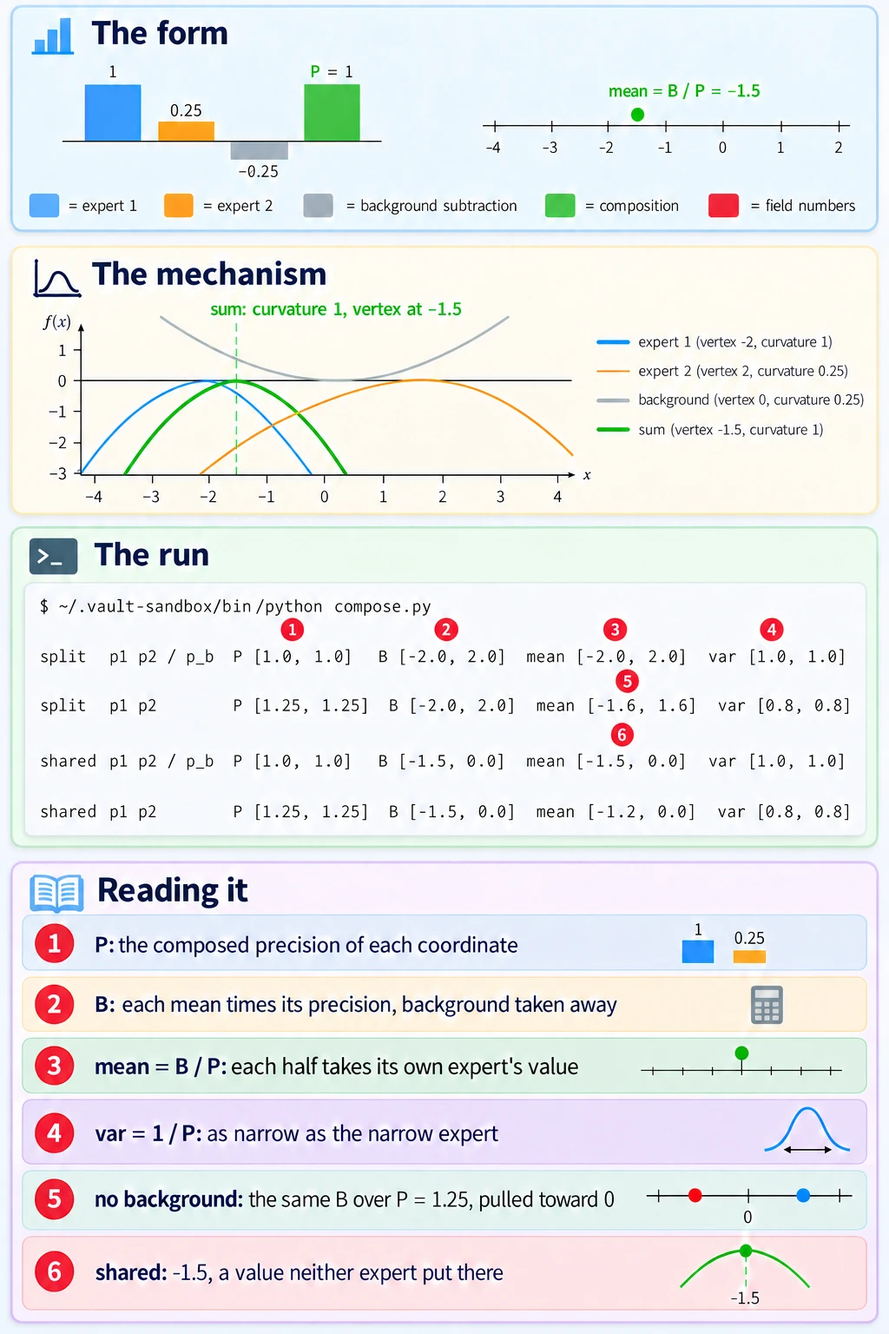
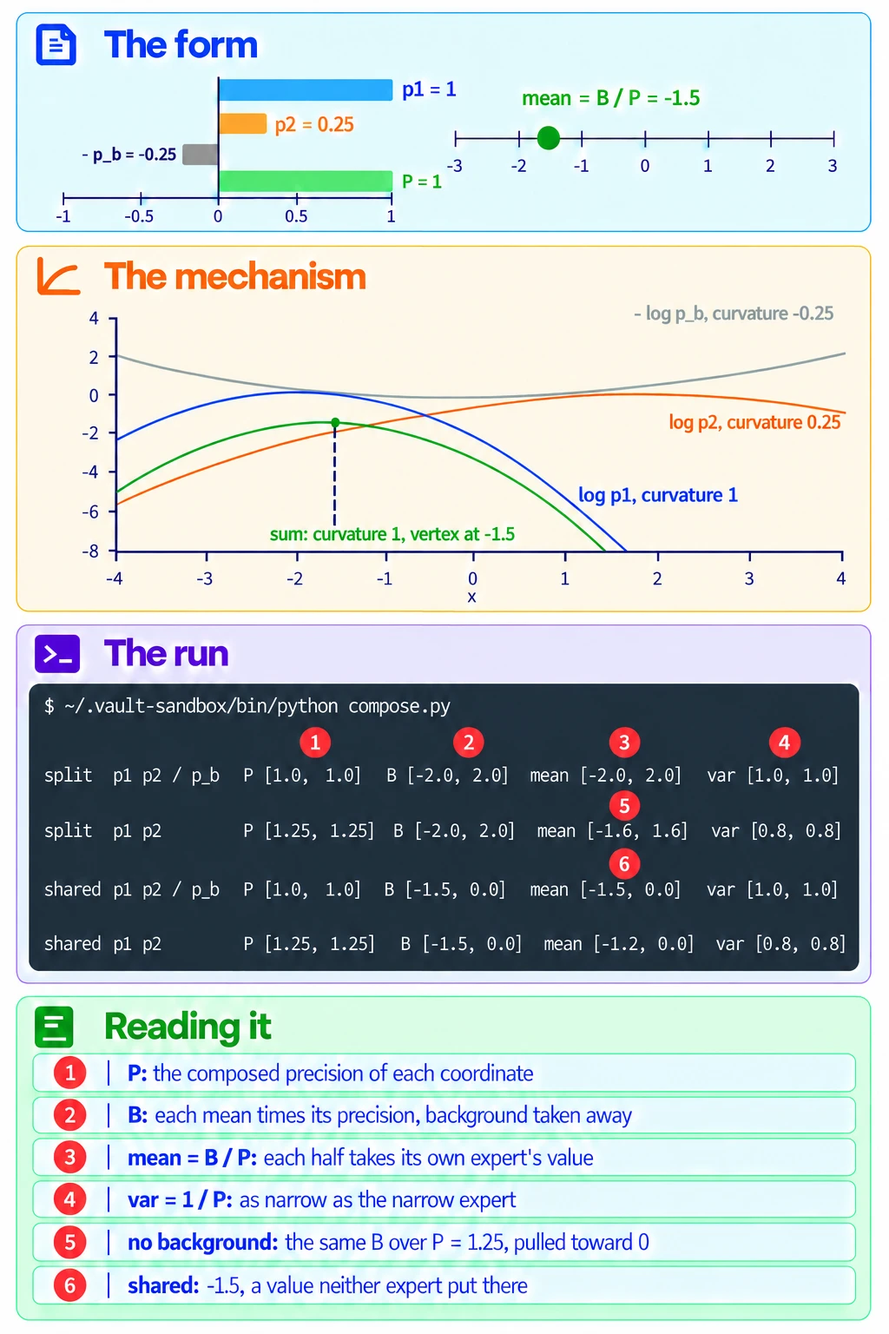
Sync from mscluster-login: 9 files

diff --git a/Artificial Intelligence/Generative Modeling/Diffusion Models/Composition/Kinds Of Composition.md b/Artificial Intelligence/Generative Modeling/Diffusion Models/Composition/Kinds Of Composition.md
@@ -73,6 +73,19 @@ Both work with events, not densities, so neither divides a conditional density b
 
 **The parts world**, also the 16-pixel parts world or the cat-dog parts world, **is a toy where every sample is 16 numbers drawn as a 4 by 4 tile and every expert is a diagonal Gaussian or a mixture of them, so the product of a cat expert and a dog expert is exact. The same product gives a mosaic (a cat head on a dog body), a midpoint blend, or two animals side by side, depending only on which pixels each expert is sure about.** On each pixel the product's mean is the [[Products And Quotients Of Diagonal Gaussians#How the product works|precision-weighted mean]], so the expert with the smaller variance there wins that pixel. *Shown* in the run below and *derived* under "How the parts world works".
 
+<!-- video-table: product-of-two-gaussians rev=1 -->
+Michel van Biezen, then Robert Ghrist from the open web, on multiplying two Gaussians, in the order to watch:
+
+| Order | What it covers | Kind | Watch |
+|---|---|---|---|
+| 1 | The gain is the estimate's error over the sum of both errors, and the new value moves toward the reading by that share, so the surer of the two pulls harder | Intuition | [Van Biezen, Kalman Filter 3 of 55, 0:28 to 3:51](https://www.youtube.com/watch?v=fpRb1sjFz_M&t=28s) |
+| 2 | One update with numbers: an estimate of 68 with error 2 and a reading of 75 with error 4 give 70.33 with error 1.33 | Worked example | [Van Biezen, Kalman Filter 6 of 55, 0:13 to 2:14](https://www.youtube.com/watch?v=SIQJaqYVtuE&t=13s) |
+| 3 | The product of two one-dimensional Gaussians is a scaled Gaussian, found by simplifying the quadratic in the exponent | Proof, open web | [Ghrist, CalcBLUE 3, 18.4, 0:26 to 4:10](https://www.youtube.com/watch?v=lUORBdNccHc&t=26s) |
+| 4 | The same product in several dimensions | Proof, open web | [Ghrist, CalcBLUE 3, 18.4, 4:10 to 5:53](https://www.youtube.com/watch?v=lUORBdNccHc&t=250s) |
+
+Van Biezen works the product as a Kalman filter update and calls the two variances errors: his old value plus the gain times the difference is the precision-weighted mean rearranged, and his new error of 1.33 from 2 and 4 is the two precisions added. No listed creator derives the product of two Gaussian densities, so rows 3 and 4 come from the open web, and no row was found that computes the overlap Z. Rows 1 and 2 are read from automatic captions and good to about 30 seconds; rows 3 and 4 are chapter boundaries, so the sentence inside each is not checked.
+<!-- /video-table -->
+
 **When to reach for it.** When a two-dimensional toy has to stand in for an image chimera. A 2D toy holds one number per slot, so the only chimera it can show is a midpoint, as in the shared case of [[Composing Models With A Background#The two-pixel picture]]. Image chimeras are mostly mosaics, where some parts follow the cat and others the dog. *Stated:* the walk's reading of chimera images, not checked against a source. The parts world gives a mosaic, a blend and co-occurrence as exact targets, with no grid and no sampler, so a sampler run on these experts can be scored against them.
 
 **The world.** Pixels 0 to 7 are the top two rows, the head, and pixels 8 to 15 the bottom two rows, the body. The left half is the left two columns. The cat expert's mean is $+1$ on every pixel it is sure of and the dog's is $-1$. Sure means variance 0.01, and loose means variance 1.
@@ -82,6 +95,18 @@ Both work with events, not densities, so neither divides a conditional density b
 | (a) | mean $+1$; variance 0.01 on the head, 1 on the body | mean $-1$; variance 1 on the head, 0.01 on the body | cats whose heads all look alike and whose bodies vary; dogs the other way round |
 | (b) | mean $+1$, variance 0.01 on every pixel | mean $-1$, variance 0.01 on every pixel | every cat image alike, every dog image alike |
 | (c) | a [mixture](../../../../Mathematics/references/textbooks/machine-learning/mathematics-for-machine-learning.pdf#page=355) with weight 0.5 each: $+1$ and sure on the left half with mean 0 and loose on the right, or the mirror image | the same with $-1$ | each animal photographed in either half of the frame |
+
+<!-- video-table: gaussian-mixture rev=1 -->
+ritvikmath on the Gaussian mixture model, in the order to watch:
+
+| Order | What it covers | Kind | Watch |
+|---|---|---|---|
+| 1 | Each class is its own Gaussian with a mean and a covariance, and π is the share of the data in each class | Intuition | [ritvikmath, Gaussian Mixture Model, 0:31 to 3:33](https://www.youtube.com/watch?v=EWd1xRkyEog&t=31s) |
+| 2 | The density of one fish: π for tuna times the tuna Gaussian, plus π for salmon times the salmon Gaussian, because the fish came from one or the other | Worked example | [ritvikmath, Gaussian Mixture Model, 3:36 to 6:23](https://www.youtube.com/watch?v=EWd1xRkyEog&t=216s) |
+| 3 | The same sum written for K components | Intuition | [ritvikmath, Gaussian Mixture Model, 7:58 to 8:43](https://www.youtube.com/watch?v=EWd1xRkyEog&t=478s) |
+
+He goes on to fit the mixture with the EM algorithm, which composing experts does not need, and he never multiplies or noises a mixture. Times are read from automatic captions and good to about 30 seconds.
+<!-- /video-table -->
 
 **The form.**
 
@@ -96,9 +121,23 @@ mixtures:  (sum_i pi_i N(mu_i, S_i)) (sum_j rho_j N(nu_j, L_j))  is proportional
 
 Both lines are derived in [[Products And Quotients Of Diagonal Gaussians#Products of Gaussian mixtures]].
 
+<!-- video-table: product-of-two-mixtures rev=1 -->
+Chalmers' multiple object tracking course, from the open web, on multiplying a Gaussian mixture by a second factor, in the order to watch:
+
+| Order | What it covers | Kind | Watch |
+|---|---|---|---|
+| 1 | Every pair of an old component and a measurement hypothesis becomes one new component, weighted by the old weight times an integral and normalised over all pairs | Intuition, open web | [Chalmers, Gaussian Sum Filtering: Prediction and Update, 2:38 to 3:38](https://www.youtube.com/watch?v=G_X_dMZUkdI&t=158s) |
+| 2 | With Gaussian factors the integral is the predicted likelihood, which is the pair's overlap, and each new component's mean and covariance come from a Kalman update | Intuition, open web | [Chalmers, Gaussian Sum Filtering: Prediction and Update, 4:20 to 5:15](https://www.youtube.com/watch?v=G_X_dMZUkdI&t=260s) |
+| 3 | Two components and two hypotheses give four numbered components | Worked example, open web | [Chalmers, Gaussian Sum Filtering: Prediction and Update, 6:05 to 7:04](https://www.youtube.com/watch?v=G_X_dMZUkdI&t=365s) |
+
+No listed creator multiplies two mixtures. The second factor in this lecture is a measurement model with a detection probability and clutter rather than a second expert, so read each measurement hypothesis as one component of the second mixture; the Kalman update is the product of the pair's two Gaussians. Times are read from automatic captions and good to about 30 seconds.
+<!-- /video-table -->
+
 ![Six 4 by 4 tiles: the cat all blue, the dog all red, (a) blue top half over red bottom half, (b) all grey, and (c) two tiles, blue left with red right and red left with blue right, each at weight 0.50|900](assets/parts-world-mosaic-blend-two-animals.png)
 
 *Each tile is one image: blue is the cat value $+1$, red the dog value $-1$, grey 0. The first two tiles are the experts' means. The next four are the exact product's means: (a) a cat head on a dog body, (b) all grey, and the two heaviest components of (c), each at weight 0.50.*
+
+**Operate it.** [The parts-world scene](https://claude.ai/artifact/6XzsUMYdEb2eopRyGkpYkh) puts these tiles under four variance sliders, so dragging moves the product from the mosaic of (a) to the blend of (b) while log Z moves with it. A position toggle opens the 2 by 2 grid of component pairs of (c) with their weights ([its pair grid](https://claude.ai/artifact/6XzsUMYdEb2eopRyGkpYkh#p6)), and a noise slider for $\bar\alpha$ sets setting (d)'s summed-score head mean beside the noised product's.
 
 ![Three rows of a cat expert times a dog expert: a cat-head-on-dog-body mosaic when each is sure of a different part, a grey smudge in a red card when both are sure of everything, and two animals side by side at weight 0.50 when each animal sits in either half|720](assets/parts-world-the-concept.webp)
 
@@ -299,6 +338,18 @@ $$
 $$
 
 while the noised product, the target the reverse process needs at this level (equation 11), puts it at $\sqrt{0.5} \cdot 0.980198 = 0.693105$. *Derived*, and the run's fields 11 and 12 agree. Halfway through sampling, summed scores put the head pixel 0.46 below the correct target, two thirds of the way from it to the grey blend's 0. How much of the mosaic a full reverse run keeps at $\bar\alpha = 1$ is not computed here. [[Annealed MCMC]] targets each level's noised product directly, which is the sampler-side repair. *Cited:* Du et al., section 4, equations 11 and 12.
+
+<!-- video-table: forward-process rev=1 -->
+Stanford CS236, then Vizuara, on the forward process, in the order to watch:
+
+| Order | What it covers | Kind | Watch |
+|---|---|---|---|
+| 1 | The noising process that turns data into noise | Intuition | [Stanford CS236, lecture 16, 12:22 to 16:23](https://www.youtube.com/watch?v=VsllsC2JMGY&t=742s) |
+| 2 | Many small noising steps combined into one transition to any noise level | Proof | [Stanford CS236, lecture 16, 16:23 to 19:05](https://www.youtube.com/watch?v=VsllsC2JMGY&t=983s) |
+| 3 | Why each step scales the mean down as well as adding noise | Intuition | [Vizuara, Principles of Diffusion Models, lecture 3, 33:51 to 42:46](https://www.youtube.com/watch?v=Dx-1agEjlJs&t=2031s) |
+
+Vizuara is added for row 3, which no CS236 chapter covers; neither noises a two-dimensional Gaussian cloud and checks the closed form. Times are chapter boundaries read from each video's chapter list, not from captions, so each is good to the chapter and the sentence inside it is not checked.
+<!-- /video-table -->
 
 > 🖼 **Picture on its way**: one head pixel's two precision bars, 100 against 1 on clean data and 1.98 against 1 at noise level 0.5, with the head's value on a number line from -1 to 1 at 0.980, 0.693 and 0.233. <!-- slot: assets/parts-world-the-mechanism.webp · prompt: .prompts/Diffusion Models.md#prompt-33-subject-the-parts-world-the-mechanism -->
 

diff --git a/.prompts/Multivariate Normal Distribution.md b/.prompts/Multivariate Normal Distribution.md
@@ -1,6 +1,6 @@
 # Multivariate Normal Distribution: illustrated map
 
-The drawn pictures for the notes in the vault's [[Multivariate Normal Distribution]] folder, sections [[Diagonal Covariance]], [[Sampling A Diagonal Gaussian]] and [[Products And Quotients Of Diagonal Gaussians]]. `11 prompts · 6 rendered · 2 stuck · 3 waiting`
+The drawn pictures for the notes in the vault's [[Multivariate Normal Distribution]] folder, sections [[Diagonal Covariance]], [[Sampling A Diagonal Gaussian]] and [[Products And Quotients Of Diagonal Gaussians]]. `12 prompts · 8 rendered · 4 stuck · 0 rendering · 0 waiting`
 
 ## Table of contents
 
@@ -408,7 +408,7 @@ Faithfulness note: The green parabola's vertex is at -1.5 and its curvature equa
 
 Navigation: ⬅ [Prompt 7 (Subject): Precisions, the mechanism](#prompt-7-subject-precisions-the-mechanism) | 📋 [TOC](#table-of-contents) | [Prompt 9 (Subject): The area a product loses](#prompt-9-subject-the-area-a-product-loses) ➡
 
-[planned] ⚙ rendering 01a149ff-cfb0-7973-8b76-dd53da89fb85
+[planned] 🖼 rendered 2026-10-17 products-deep-dive-sheet.webp
 Save as: `../Mathematics/Statistics/Distributions/Multivariate Normal Distribution/assets/products-deep-dive-sheet.webp`
 
 Visual thesis: The composed precision, the weighted sum, the mean and the variance come from adding and subtracting, and the run shows the background moving split to (-2, 2) and shared to (-1.5, 0).
@@ -438,13 +438,13 @@ Text in the image, spelled exactly: "The form", "The mechanism", "The run", "Rea
 Exclusions: no fifth pane, no leader lines between panes, no altered output text, no wrapped output line that loses its spacing, no legend panel or colour key, no positive curvature written on the grey curve. no duplicated components, no orphan arrows, no arrow terminating in whitespace, no decorative circuitry or filigree, no invented or misapplied brand logos, no paragraphs of text, no illegible pseudo-code, no crossing arrows where routing could avoid it, no untitled containers, no icon without a label, no perspective distortion applied to arrows, no visual metaphor that contradicts the system's actual semantics, no watermark, no geometric pictogram, circuit symbol, or bare connector line standing in for a real-world physical object the prompt names.
 ```
 
-Faithfulness note: The four output lines match the note's captured run character for character, runs of spaces included; markers 1 to 6 sit over the same fields as the note's rendered output picture; four panes only; no legend anywhere; the grey curve in pane 2 opens upward and is labelled with curvature -0.25, the sign the previous render dropped. Every label in the image, exactly: "The form", "The mechanism", "The run", "Reading it", "P = 1", "mean = B / P = -1.5", "log p1, curvature 1", "log p2, curvature 0.25", "- log p_b, curvature -0.25", "sum: curvature 1, vertex at -1.5", "$ ~/.vault-sandbox/bin/python compose.py", "1 P: the composed precision of each coordinate", "2 B: each mean times its precision, background taken away", "3 mean = B / P: each half takes its own expert's value", "4 var = 1 / P: as narrow as the narrow expert", "5 no background: the same B over P = 1.25, pulled toward 0", "6 shared: -1.5, a value neither expert put there".
+Faithfulness note: The four output lines match the note's captured run character for character, runs of spaces included; markers 1 to 6 sit over the same fields as the note's rendered output picture; four panes only; no legend anywhere; the grey curve in pane 2 opens upward and is labelled with curvature -0.25, minus sign included. Every label in the image, exactly: "The form", "The mechanism", "The run", "Reading it", "P = 1", "mean = B / P = -1.5", "log p1, curvature 1", "log p2, curvature 0.25", "- log p_b, curvature -0.25", "sum: curvature 1, vertex at -1.5", "$ ~/.vault-sandbox/bin/python compose.py", "1 P: the composed precision of each coordinate", "2 B: each mean times its precision, background taken away", "3 mean = B / P: each half takes its own expert's value", "4 var = 1 / P: as narrow as the narrow expert", "5 no background: the same B over P = 1.25, pulled toward 0", "6 shared: -1.5, a value neither expert put there".
 
 ### Prompt 9 (Subject): The area a product loses
 
 Navigation: ⬅ [Prompt 8 (Subject capstone): Precisions, the deep-dive sheet](#prompt-8-subject-capstone-precisions-the-deep-dive-sheet) | 📋 [TOC](#table-of-contents) | [Prompt 10 (Subject): Powers of Gaussians](#prompt-10-subject-powers-of-gaussians) ➡
 
-[planned] ⏳ not rendered
+[planned] ⚠ stuck: pixel check after 3 revisions, the right panel's tangents sit at the parabolas' peak (x about -0.30 on the -3 to 3 axis) where the note puts them at x = 0, so a sloped tangent is drawn at a vertex, and the solid bump peaks at 0.066 on the dashed bell's scale where the note says near 0.054 (0.092 of the dashed bell's height, about one tenth); the constant gap (234 to 238 px at every x), expert b to expert a 0.778 against 0.791, the dashed bell 1.31 times expert a against 1.275, parallel tangents and every label correct; last attempt ~/.cache/codex-drop/obsidian/products-the-area-a-product-loses.png
 Save as: `../Mathematics/Statistics/Distributions/Multivariate Normal Distribution/assets/products-the-area-a-product-loses.webp`
 
 Visual thesis: Multiplying two densities point by point leaves a small bump whose area is 0.075126, and dividing by that area lifts its log by a constant, so the slope of the log, the score, stays the same.
@@ -480,7 +480,7 @@ Faithfulness note: The solid green bump peaks near 0.054 and is about one tenth 
 
 Navigation: ⬅ [Prompt 9 (Subject): The area a product loses](#prompt-9-subject-the-area-a-product-loses) | 📋 [TOC](#table-of-contents) | [Subject lane: Products of Gaussian mixtures](#subject-lane-products-of-gaussian-mixtures) ➡
 
-[planned] ⏳ not rendered
+[planned] ⚠ stuck: pixel check after 3 revisions, bars not to one scale (the blue 2-unit bar is 215, 215, 181 and 120 px in the four rows) and row 1's bells off their means on the -4 to 10 axis (expert a near -0.36 where it must be -1, the product near 0.57 where it must be -0.23, expert b near 1.95 where it must be 1); guidance near 0.27 and negation near -1.95, left of expert a, the row 4 curve opening upward with no peak, opacity and every label correct; two attempts came back semi-transparent (RGBA) and the last is opaque; last attempt ~/.cache/codex-drop/obsidian/products-powers-of-gaussians.png
 Save as: `../Mathematics/Statistics/Distributions/Multivariate Normal Distribution/assets/products-powers-of-gaussians.webp`
 
 Visual thesis: Raising each Gaussian to a power scales its precision bar by that power before the bars are added, and when a negative power takes the total below zero the result is no longer a bell.
@@ -522,7 +522,7 @@ One picture for [[Products And Quotients Of Diagonal Gaussians#Products of Gauss
 
 Navigation: ⬅ [Subject lane: Products of Gaussian mixtures](#subject-lane-products-of-gaussian-mixtures) | 📋 [TOC](#table-of-contents) | [Process lane](#process-lane) ➡
 
-[planned] ⏳ not rendered
+[planned] 🖼 rendered 2026-10-17 products-of-gaussian-mixtures.webp
 Save as: `../Mathematics/Statistics/Distributions/Multivariate Normal Distribution/assets/products-of-gaussian-mixtures.webp`
 
 Visual thesis: Multiplying two two-component mixtures gives one component per pair, four in all, and each pair's weight is how much its two components overlap, so the two pairs that agree keep all the weight and the two that clash keep none.

diff --git a/Mathematics/Statistics/Distributions/Multivariate Normal Distribution/Products And Quotients Of Diagonal Gaussians.md b/Mathematics/Statistics/Distributions/Multivariate Normal Distribution/Products And Quotients Of Diagonal Gaussians.md
@@ -312,7 +312,43 @@ Textbook: [Matrix Cookbook, section 8.1.8, p. 42](../../../references/textbooks/
 
 **The product of two Gaussian mixtures is again a Gaussian mixture, with one component for every pair of components: pair $(i, j)$ has the mean and covariance of the plain product of its two Gaussians, and the weight $w_{ij} \propto \pi_i\,\rho_j\,\mathcal{N}(\mu_i; \nu_j, \Sigma_i + \Lambda_j)$.** That last factor is the pair's area, $Z$ of [[The Area A Product Loses]], so a pair whose two components barely overlap gets almost no weight. *Derived* below.
 
+<!-- video-table: gaussian-mixture rev=1 -->
+ritvikmath on the Gaussian mixture model, in the order to watch:
+
+| Order | What it covers | Kind | Watch |
+|---|---|---|---|
+| 1 | Each class is its own Gaussian with a mean and a covariance, and π is the share of the data in each class | Intuition | [ritvikmath, Gaussian Mixture Model, 0:31 to 3:33](https://www.youtube.com/watch?v=EWd1xRkyEog&t=31s) |
+| 2 | The density of one fish: π for tuna times the tuna Gaussian, plus π for salmon times the salmon Gaussian, because the fish came from one or the other | Worked example | [ritvikmath, Gaussian Mixture Model, 3:36 to 6:23](https://www.youtube.com/watch?v=EWd1xRkyEog&t=216s) |
+| 3 | The same sum written for K components | Intuition | [ritvikmath, Gaussian Mixture Model, 7:58 to 8:43](https://www.youtube.com/watch?v=EWd1xRkyEog&t=478s) |
+
+He goes on to fit the mixture with the EM algorithm, which composing experts does not need, and he never multiplies or noises a mixture. Times are read from automatic captions and good to about 30 seconds.
+<!-- /video-table -->
+
+<!-- video-table: product-of-two-mixtures rev=1 -->
+Chalmers' multiple object tracking course, from the open web, on multiplying a Gaussian mixture by a second factor, in the order to watch:
+
+| Order | What it covers | Kind | Watch |
+|---|---|---|---|
+| 1 | Every pair of an old component and a measurement hypothesis becomes one new component, weighted by the old weight times an integral and normalised over all pairs | Intuition, open web | [Chalmers, Gaussian Sum Filtering: Prediction and Update, 2:38 to 3:38](https://www.youtube.com/watch?v=G_X_dMZUkdI&t=158s) |
+| 2 | With Gaussian factors the integral is the predicted likelihood, which is the pair's overlap, and each new component's mean and covariance come from a Kalman update | Intuition, open web | [Chalmers, Gaussian Sum Filtering: Prediction and Update, 4:20 to 5:15](https://www.youtube.com/watch?v=G_X_dMZUkdI&t=260s) |
+| 3 | Two components and two hypotheses give four numbered components | Worked example, open web | [Chalmers, Gaussian Sum Filtering: Prediction and Update, 6:05 to 7:04](https://www.youtube.com/watch?v=G_X_dMZUkdI&t=365s) |
+
+No listed creator multiplies two mixtures. The second factor in this lecture is a measurement model with a detection probability and clutter rather than a second expert, so read each measurement hypothesis as one component of the second mixture; the Kalman update is the product of the pair's two Gaussians. Times are read from automatic captions and good to about 30 seconds.
+<!-- /video-table -->
+
 **When to reach for it.** When the experts being multiplied are mixtures, such as an animal that can sit in either half of the frame, or any expert noised from a mixture by the forward process, which noises each component on its own and so returns a mixture. Each pair is a closed-form product, so the composed density is exact in any number of dimensions, with no grid. The count of components is the product of the two counts: 2 by 2 gives 4.
+
+<!-- video-table: forward-process rev=1 -->
+Stanford CS236, then Vizuara, on the forward process, in the order to watch:
+
+| Order | What it covers | Kind | Watch |
+|---|---|---|---|
+| 1 | The noising process that turns data into noise | Intuition | [Stanford CS236, lecture 16, 12:22 to 16:23](https://www.youtube.com/watch?v=VsllsC2JMGY&t=742s) |
+| 2 | Many small noising steps combined into one transition to any noise level | Proof | [Stanford CS236, lecture 16, 16:23 to 19:05](https://www.youtube.com/watch?v=VsllsC2JMGY&t=983s) |
+| 3 | Why each step scales the mean down as well as adding noise | Intuition | [Vizuara, Principles of Diffusion Models, lecture 3, 33:51 to 42:46](https://www.youtube.com/watch?v=Dx-1agEjlJs&t=2031s) |
+
+Vizuara is added for row 3, which no CS236 chapter covers; neither noises a two-dimensional Gaussian cloud and checks the closed form. Times are chapter boundaries read from each video's chapter list, not from captions, so each is good to the chapter and the sentence inside it is not checked.
+<!-- /video-table -->
 
 **The form.**
 
@@ -325,7 +361,9 @@ Z_ij  = N(mu_i; nu_j, S_i + L_j)              the pair's area, how much the two 
 w_ij  = pi_i rho_j Z_ij / (sum over all pairs of the same)
 ```
 
-> 🖼 **Picture on its way**: two two-component mixtures multiplied into a 2 by 2 grid of component pairs, each cell holding the pair's product tile and its weight, the overlapping pairs heavy and the clashing pairs at weight 0. <!-- slot: assets/products-of-gaussian-mixtures.webp · prompt: .prompts/Multivariate Normal Distribution.md#prompt-11-subject-products-of-gaussian-mixtures -->
+![A 2 by 2 grid multiplying the cat mixture (cat left, cat right, 0.5 each) by the dog mixture (dog left, dog right, 0.5 each): the two pairs in opposite halves keep weight 0.50 at log w = -24.1, the two pairs in the same half get weight 0.00 at log w = -803.2|720](assets/products-of-gaussian-mixtures.webp)
+
+*Each cell is one pair of components. The pairs that put the cat and the dog in opposite halves overlap and share all the weight; the pairs that put both in one half are about 779 nats lower in log w and keep none.*
 
 **How the mixture product works.** Multiply the two sums term by term, the way $(a_1 + a_2)(b_1 + b_2) = a_1 b_1 + a_1 b_2 + a_2 b_1 + a_2 b_2$:
 

diff --git a/Mathematics/references/videos/Video Lessons.md b/Mathematics/references/videos/Video Lessons.md
@@ -30,6 +30,9 @@ The reference shelf for the moment a derivation stalls on a word a video could t
 - [[#The noise schedule written as code]]
 - [[#The reverse step and the sampler loop]]
 - [[#The epsilon loss written as code]]
+- [[#The product of two Gaussians and the precision-weighted mean]]
+- [[#The Gaussian mixture model]]
+- [[#The product of two Gaussian mixtures]]
 - [[#The multivariate normal and its covariance matrix]]
 - [[#Adding two independent Gaussians]]
 - [[#NumPy arrays against Python lists]]
@@ -524,4 +527,47 @@ DataMListic on tuning a Metropolis chain, in the order to watch:
 | 2 | Burn-in: discard the early samples so the chain forgets where it started | Intuition | [DataMListic, Metropolis-Hastings Explained, 2:22 to 2:34](https://www.youtube.com/watch?v=7IpvsfRgTTY&t=142s) |
 
 DataMListic states the 20 to 50 percent rule without deriving it and never mentions effective sample size; the user supplied this video, and DataMListic is not on the creator list. Times are the video's own chapter boundaries, checked against its automatic captions to within a few seconds.
+<!-- /video-table -->
+
+## The product of two Gaussians and the precision-weighted mean
+
+<!-- video-table: product-of-two-gaussians rev=1 -->
+Michel van Biezen, then Robert Ghrist from the open web, on multiplying two Gaussians, in the order to watch:
+
+| Order | What it covers | Kind | Watch |
+|---|---|---|---|
+| 1 | The gain is the estimate's error over the sum of both errors, and the new value moves toward the reading by that share, so the surer of the two pulls harder | Intuition | [Van Biezen, Kalman Filter 3 of 55, 0:28 to 3:51](https://www.youtube.com/watch?v=fpRb1sjFz_M&t=28s) |
+| 2 | One update with numbers: an estimate of 68 with error 2 and a reading of 75 with error 4 give 70.33 with error 1.33 | Worked example | [Van Biezen, Kalman Filter 6 of 55, 0:13 to 2:14](https://www.youtube.com/watch?v=SIQJaqYVtuE&t=13s) |
+| 3 | The product of two one-dimensional Gaussians is a scaled Gaussian, found by simplifying the quadratic in the exponent | Proof, open web | [Ghrist, CalcBLUE 3, 18.4, 0:26 to 4:10](https://www.youtube.com/watch?v=lUORBdNccHc&t=26s) |
+| 4 | The same product in several dimensions | Proof, open web | [Ghrist, CalcBLUE 3, 18.4, 4:10 to 5:53](https://www.youtube.com/watch?v=lUORBdNccHc&t=250s) |
+
+Van Biezen works the product as a Kalman filter update and calls the two variances errors: his old value plus the gain times the difference is the precision-weighted mean rearranged, and his new error of 1.33 from 2 and 4 is the two precisions added. No listed creator derives the product of two Gaussian densities, so rows 3 and 4 come from the open web, and no row was found that computes the overlap Z. Rows 1 and 2 are read from automatic captions and good to about 30 seconds; rows 3 and 4 are chapter boundaries, so the sentence inside each is not checked.
+<!-- /video-table -->
+
+## The Gaussian mixture model
+
+<!-- video-table: gaussian-mixture rev=1 -->
+ritvikmath on the Gaussian mixture model, in the order to watch:
+
+| Order | What it covers | Kind | Watch |
+|---|---|---|---|
+| 1 | Each class is its own Gaussian with a mean and a covariance, and π is the share of the data in each class | Intuition | [ritvikmath, Gaussian Mixture Model, 0:31 to 3:33](https://www.youtube.com/watch?v=EWd1xRkyEog&t=31s) |
+| 2 | The density of one fish: π for tuna times the tuna Gaussian, plus π for salmon times the salmon Gaussian, because the fish came from one or the other | Worked example | [ritvikmath, Gaussian Mixture Model, 3:36 to 6:23](https://www.youtube.com/watch?v=EWd1xRkyEog&t=216s) |
+| 3 | The same sum written for K components | Intuition | [ritvikmath, Gaussian Mixture Model, 7:58 to 8:43](https://www.youtube.com/watch?v=EWd1xRkyEog&t=478s) |
+
+He goes on to fit the mixture with the EM algorithm, which composing experts does not need, and he never multiplies or noises a mixture. Times are read from automatic captions and good to about 30 seconds.
+<!-- /video-table -->
+
+## The product of two Gaussian mixtures
+
+<!-- video-table: product-of-two-mixtures rev=1 -->
+Chalmers' multiple object tracking course, from the open web, on multiplying a Gaussian mixture by a second factor, in the order to watch:
+
+| Order | What it covers | Kind | Watch |
+|---|---|---|---|
+| 1 | Every pair of an old component and a measurement hypothesis becomes one new component, weighted by the old weight times an integral and normalised over all pairs | Intuition, open web | [Chalmers, Gaussian Sum Filtering: Prediction and Update, 2:38 to 3:38](https://www.youtube.com/watch?v=G_X_dMZUkdI&t=158s) |
+| 2 | With Gaussian factors the integral is the predicted likelihood, which is the pair's overlap, and each new component's mean and covariance come from a Kalman update | Intuition, open web | [Chalmers, Gaussian Sum Filtering: Prediction and Update, 4:20 to 5:15](https://www.youtube.com/watch?v=G_X_dMZUkdI&t=260s) |
+| 3 | Two components and two hypotheses give four numbered components | Worked example, open web | [Chalmers, Gaussian Sum Filtering: Prediction and Update, 6:05 to 7:04](https://www.youtube.com/watch?v=G_X_dMZUkdI&t=365s) |
+
+No listed creator multiplies two mixtures. The second factor in this lecture is a measurement model with a detection probability and clutter rather than a second expert, so read each measurement hypothesis as one component of the second mixture; the Kalman update is the product of the pair's two Gaussians. Times are read from automatic captions and good to about 30 seconds.
 <!-- /video-table -->

diff --git a/.prompts/Diffusion Models.md b/.prompts/Diffusion Models.md
@@ -1,6 +1,6 @@
 # Diffusion Models: illustrated map
 
-The drawn pictures for the notes in the vault's [[Diffusion Models]] folder and its two [[Markov Chain Monte Carlo]] notes: [[The Forward Process]], [[Composing Models With A Background]], [[The Order Of Multiplying And Noising]] and [[The Energy Parameterisation]], with one concept picture for [[The Product As An Intersection]], [[Product, Mixture And Negation]], with one concept picture each for [[Annealed MCMC]] and [[Step Size And The Accept Step]], [[What An Expert Learns From Its Training Set]], one concept picture for [[Kinds Of Composition]], and one concept picture for [[When Neither Training Set Holds A And B]]. `23 prompts · 20 rendered · 3 stuck · 0 waiting`
+The drawn pictures for the notes in the vault's [[Diffusion Models]] folder and its two [[Markov Chain Monte Carlo]] notes: [[The Forward Process]], [[Composing Models With A Background]], [[The Order Of Multiplying And Noising]] and [[The Energy Parameterisation]], with one concept picture for [[The Product As An Intersection]], [[Product, Mixture And Negation]], with one concept picture each for [[Annealed MCMC]] and [[Step Size And The Accept Step]], [[What An Expert Learns From Its Training Set]], one concept picture for [[Kinds Of Composition]], and one concept picture for [[When Neither Training Set Holds A And B]]. `33 prompts · 25 rendered · 8 stuck · 0 rendering · 0 waiting`
 
 ## Table of contents
 
@@ -1336,7 +1336,7 @@ Faithfulness note: Row (a)'s cat is crisp only on the head and its dog crisp onl
 
 Navigation: ⬅ [Prompt 32 (Subject concept): Mosaic, blend or two animals](#prompt-32-subject-concept-mosaic-blend-or-two-animals) | 📋 [TOC](#table-of-contents) | [Process lane](#process-lane) ➡
 
-[planned] ⚙ rendering 01a14a04-b4d4-7880-aa81-de20040f4c89
+[planned] ⚠ stuck: pixel check, right number line not linear after 3 revisions (0 to cat 0.707 is 307 px, 0 to dog -0.707 is 252 px, so the green dot reads about 0.68 where it must be 0.693 and the purple dot about 0.21 where it must be 0.233); last attempt also lifts the purple dot off the line onto a raised bracket with a second green dot, and draws the right bars 1.91 to 1 not 1.98; left line, left bars, opacity and every label correct; first attempt came back transparent (RGBA) and was regenerated opaque; one revision call went to the krea tool and was cancelled, then retried; last attempt ~/.cache/codex-drop/obsidian/parts-world-the-mechanism.png
 Save as: `../Artificial Intelligence/Generative Modeling/Diffusion Models/Composition/assets/parts-world-the-mechanism.webp`
 
 Visual thesis: Noising shrinks the cat's precision lead on a head pixel from 100 to 1 down to 1.98 to 1, so summed scores put the head at 0.233 where the correct noised target is 0.693.

diff --git a/Artificial Intelligence/Generative Modeling/Diffusion Models/Diffusion Models.md b/Artificial Intelligence/Generative Modeling/Diffusion Models/Diffusion Models.md
@@ -19,7 +19,7 @@ Up: [[Generative Modeling]]
 Artificial Intelligence, Generative Modeling. Needs: [[Sampling A Diagonal Gaussian]] for drawing a cloud, [[Products And Quotients Of Diagonal Gaussians]] for the arithmetic of composing, and [[Broadcasting]] for noising many levels in one line.
 
 > [!question] Test yourself
-> [The diffusion models quiz](https://claude.ai/artifact/MyTdAaVfZW3wiqhbLKg4wu) covers [[The Forward Process]], [[Composing Models With A Background]] with the paper's figures, [[Kinds Of Composition]], [[What An Expert Learns From Its Training Set]] and [[When Neither Training Set Holds A And B]] with its four-quadrant answer key, and [[Three Things Called Annealing]] apart from [[The Tempered Density And Its Score]], in 81 questions. Your attempts are saved on the page.
+> [The diffusion models quiz](https://claude.ai/artifact/MyTdAaVfZW3wiqhbLKg4wu) covers [[The Forward Process]], [[Composing Models With A Background]] with the paper's figures, [[Kinds Of Composition]] with its parts world, [[What An Expert Learns From Its Training Set]] and [[When Neither Training Set Holds A And B]] with its four-quadrant answer key, and [[Three Things Called Annealing]] apart from [[The Tempered Density And Its Score]], in 91 questions. Your attempts are saved on the page.
 
 Each note below lists its own missing pictures and runs at its top.
 

diff --git a/Mathematics/Statistics/Distributions/Multivariate Normal Distribution/Multivariate Normal Distribution.md b/Mathematics/Statistics/Distributions/Multivariate Normal Distribution/Multivariate Normal Distribution.md
@@ -17,7 +17,7 @@ Up: [[Distributions]]
 Mathematics, Statistics, Distributions. Needs: the one-dimensional normal density, which the learner's [Gaussian Bowl Sketchpad](https://claude.ai/artifact/2TarMifiFoFyoB23eQFR64) lets you drag by its mean and variance.
 
 > [!question] Test yourself
-> [The diagonal Gaussian quiz](https://claude.ai/artifact/Vmd1FBg7oWwZq1onu9Jofa) covers [[Diagonal Covariance]], [[Sampling A Diagonal Gaussian]] and [[Products And Quotients Of Diagonal Gaussians]], including the paper's Figure 12, in 28 questions. Your attempts are saved on the page.
+> [The diagonal Gaussian quiz](https://claude.ai/artifact/Vmd1FBg7oWwZq1onu9Jofa) covers [[Diagonal Covariance]], [[Sampling A Diagonal Gaussian]] and [[Products And Quotients Of Diagonal Gaussians]], including the paper's Figure 12 and products of Gaussian mixtures, in 36 questions. Your attempts are saved on the page.
 
 > [!warning] Unfinished
 > - Only the diagonal case has a note yet. A full covariance, with the coordinates correlated, waits for a walk that uses one.
